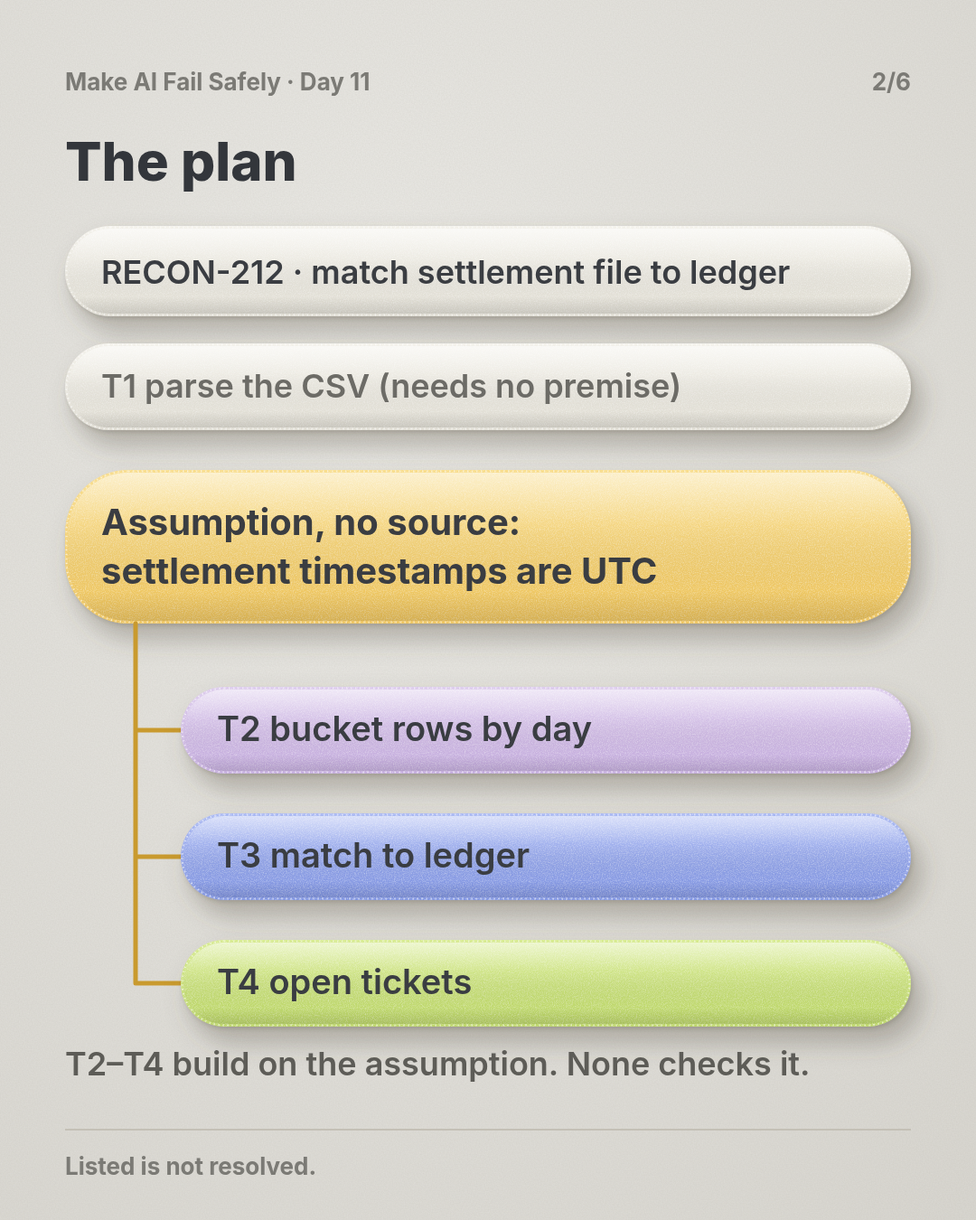
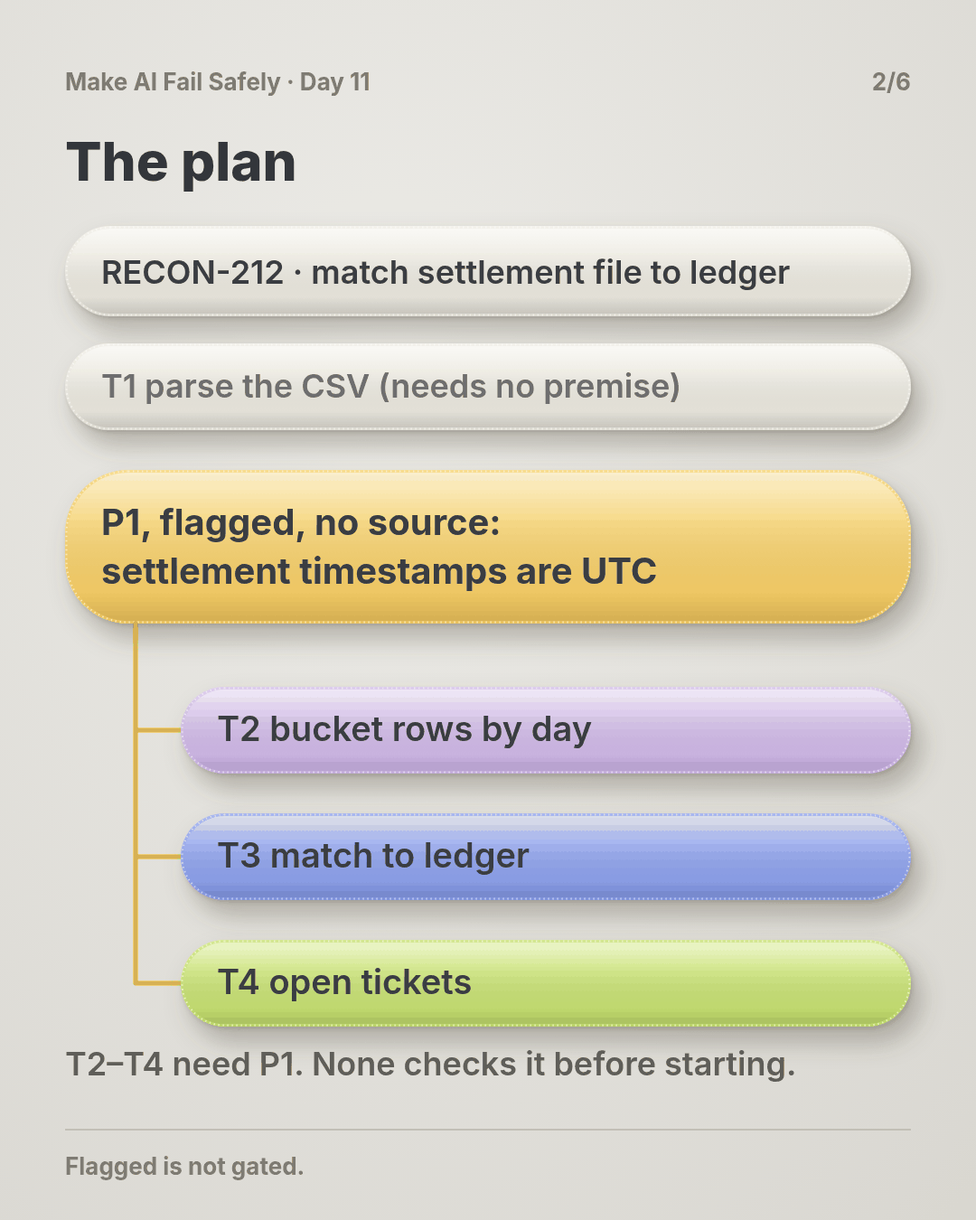
Day 11: reframe as Started on a Guess (flagged is not gated); review fixes, new diagram and slides

Changed region(s): [[0.0611, 0.4044, 0.9167, 0.8089], [0.1833, 0.8089, 0.9167, 0.9022], [0.0611, 0.9333, 0.3361, 0.9644]]

diff --git a/courses/make-ai-fail-safely/practice/day-11-premise-gate/gate.py b/courses/make-ai-fail-safely/practice/day-11-premise-gate/gate.py
@@ -1,0 +1,50 @@
+#!/usr/bin/env python3
+"""Premise gate: run before a task starts. A task may start only if every premise
+it needs is KNOWN with a source you can open.
+
+Usage: python3 gate.py plan.json [task_id]
+plan.json:
+  {"premises": {"P1": {"claim": "...", "status": "KNOWN|UNKNOWN",
+                       "source": "...", "resolve": "what settles it"}},
+   "tasks": [{"id": "T1", "needs": ["P1"]}]}
+Exit 0 if the named task (or every task) may start, 1 otherwise. No dependencies.
+Blocked tasks print Day 9's shape: BLOCKED: <rule> | found: <...> | need: <...>
+"""
+import json, sys
+
+def check(plan, task):
+    prem = plan.get("premises", {})
+    if "needs" not in task:
+        return [("task has no needs list", "no 'needs' on " + task["id"], "write the premises it depends on, or []")]
+    out = []
+    for pid in task["needs"]:
+        p = prem.get(pid)
+        if p is None:
+            out.append((f"premise {pid} missing", f"{task['id']} needs {pid}, not in the premise list", "add it to the plan"))
+        elif p.get("status") != "KNOWN":
+            out.append((f"premise {pid} unknown", f"{task['id']} needs \"{p.get('claim', '?')}\", no source", p.get("resolve") or "a source you can open"))
+        elif not str(p.get("source", "")).strip():
+            out.append((f"premise {pid} unsourced", f"marked KNOWN with no source", "a source you can open"))
+    return out
+
+def main():
+    plan = json.load(open(sys.argv[1]))
+    only = sys.argv[2] if len(sys.argv) > 2 else None
+    tasks = plan.get("tasks", [])
+    if only and not any(t["id"] == only for t in tasks):
+        print(f"{only}: unknown task id"); sys.exit(1)
+    ok = True
+    for t in tasks:
+        if only and t["id"] != only:
+            continue
+        probs = check(plan, t)
+        if probs:
+            ok = False
+            for rule, found, need in probs:
+                print(f"{t['id']}: BLOCKED: {rule} | found: {found} | need: {need}")
+        else:
+            print(f"{t['id']}: may start")
+    sys.exit(0 if ok else 1)
+
+if __name__ == "__main__":
+    main()

diff --git a/courses/make-ai-fail-safely/day-11.md b/courses/make-ai-fail-safely/day-11.md
@@ -1,49 +1,42 @@
-# Day 11 — Listed, Not Gated
+# Day 11 — Started on a Guess
 
 **Time:** ~15 min
 
 ## What you'll learn
 
-Day 10 let a null field stop one record. Today an unknown premise stops a step of the plan.
+Day 10 let a null field stop one record. Today an unsourced premise stops one task of a running plan.
 
-**An assumption that doesn't block anything is decoration.** A premise is a fact a step depends on: "timestamps are UTC", "the IDs are unique". Agents are good at listing them now. A plan with an "Assumptions" section feels careful. But if every task still runs while a premise is unconfirmed, the list changes nothing: each later step builds on the guess and makes it more expensive to undo. You'll see a reconciliation plan that wrote its key premise down, marked it as an assumption, and built three tasks on it anyway. Then you'll turn that list into a gate: each premise is KNOWN with a source or UNKNOWN, and a step whose premise is UNKNOWN does not start.
-
-## Day 11 in 6 slides
-
-<table>
-<tr><td><a href="./assets/day-11/slide-1.png"><img src="./assets/day-11/slide-1.png" width="240" alt="1/6: The plan listed its assumption, settlement timestamps are UTC. Nothing waited for it; three tasks were built on it, and it was wrong."></a></td><td><a href="./assets/day-11/slide-2.png"><img src="./assets/day-11/slide-2.png" width="240" alt="2/6: The RECON-212 plan. T1 parse the CSV needs no premise. T2 bucket, T3 match and T4 tickets all hang off the unsourced assumption that timestamps are UTC."></a></td><td><a href="./assets/day-11/slide-3.png"><img src="./assets/day-11/slide-3.png" width="240" alt="3/6: The file is Amsterdam time; 00:20 on the 15th is 23:20 UTC on the 14th. 99.00 + 31.00 = 130.00 EUR lands on the wrong day, false tickets every night; tests had only daytime rows."></a></td></tr>
-<tr><td><a href="./assets/day-11/slide-4.png"><img src="./assets/day-11/slide-4.png" width="240" alt="4/6: The fix. Each premise is KNOWN with a source or UNKNOWN. BLOCKED: T2-T4 | P1 UNKNOWN, then a spec check says local time, then P1 KNOWN and T2-T4 run. T1 runs from the start."></a></td><td><a href="./assets/day-11/slide-5.png"><img src="./assets/day-11/slide-5.png" width="240" alt="5/6: Where it fits: spec, plan, premise gate (every premise KNOWN, or the task waits), tasks, implement. On big requirements resolve shared premises first."></a></td><td><a href="./assets/day-11/slide-6.png"><img src="./assets/day-11/slide-6.png" width="240" alt="6/6: The rule. Listed is not resolved. An unknown premise blocks the next step."></a></td></tr>
-</table>
+**A task should start only when every premise it needs has a source you can open.** A premise is a fact a task depends on: "timestamps are UTC", "IDs are unique". In a multi-task plan, an agent picks up task after task, often across sessions. Flagging a premise in the plan doesn't stop any of them: each task starts on whatever the plan says, and later tasks inherit the guess as if it were settled. Day 2 got gaps surfaced in a single answer; today they control when each task of a plan may begin. You'll see a reconciliation plan that flagged its key premise and still ran three tasks on it, then build the gate: each premise is KNOWN with an openable source or UNKNOWN, each task names the premises it needs, the check happens when a task starts, and the answer is written back into the plan.
 
 ## See it
 
-One plan. Two ways to hold a premise.
+One plan. Two ways a task can start.
 
-![A reconciliation plan lists "Assumption: settlement file timestamps are UTC". Red path, listed only: tasks 2 to 4 run on it; the file is Amsterdam local time; two late-evening payments, 130.00 EUR, land on the wrong day; discrepancy tickets go out. Marked WRONG. Green path, gated: P1 is UNKNOWN, so tasks 2 to 4 are blocked; the acquirer spec says local time; P1 becomes KNOWN with a source, then the tasks run. Marked SAFE. Footer: An unknown premise blocks the next step.](./day-11.svg)
+![The plan flags "settlement file timestamps are UTC" with no source. Red path, flagged only: T2 to T4 start on it; the file is Amsterdam time; 130.00 EUR lands on the wrong day; false tickets nightly. Green path, gated at task start: T2 to T4 return BLOCKED; the provider spec says local time; written into the plan as KNOWN with source; then they run.](./day-11.svg)
 
 ```mermaid
 flowchart TB
-  P["Plan: 'Assumption: settlement files are UTC'"] --> L["Listed only: T2-T4 run on it"]
-  P --> G["Gated: P1 UNKNOWN, T2-T4 blocked"]
-  L --> W["File is Amsterdam time. 130.00 EUR on the wrong day. Tickets sent."]
-  G --> S["Spec checked: local time. P1 KNOWN, with source. Then T2-T4 run."]
+  P["Plan flags: 'timestamps are UTC' (no source)"] --> L["Flagged only: T2-T4 start on it"]
+  P --> G["Gated: T2-T4 check P1 at start, BLOCKED"]
+  L --> W["File is Amsterdam time. 130.00 EUR on the wrong day. False tickets."]
+  G --> S["Spec says local time. Written into the plan with source. T2-T4 run."]
 ```
 
 ```text
-P1  settlement file timestamps are UTC        UNKNOWN  (no source)
-P2  ledger books by UTC date                  KNOWN    ledger/schema.sql
+P1  settlement file timestamps are UTC   UNKNOWN  source: -
+P2  ledger books by UTC date             KNOWN    source: ledger/schema.sql
 
-T1  parse settlement CSV          needs: -       -> may start
-T2  bucket rows by date           needs: P1      -> BLOCKED
-T3  match buckets to ledger       needs: P1, P2  -> BLOCKED
-T4  open discrepancy tickets      needs: P1, P2  -> BLOCKED
+T1  parse the CSV              needs: -       -> may start
+T2  bucket rows by date        needs: P1      -> BLOCKED
+T3  match buckets to ledger    needs: P1, P2  -> BLOCKED
+T4  open discrepancy tickets   needs: P1, P2  -> BLOCKED
 ```
 
 ## Story
 
 You pick up a ticket and paste it into your agent in full:
 
-> **RECON-212: Daily settlement reconciliation.** Each morning our acquirer drops a settlement CSV (one row per captured payment: `payment_id, captured_at, amount, currency`). Match it against our ledger by settlement day. Any ledger payment missing from that day's file, or any file row with no ledger entry, opens a discrepancy ticket for finance ops. Acceptance: runs at 06:00 UTC, zero false tickets on last month's data.
+> **RECON-212: Daily settlement reconciliation.** Each morning our payment provider drops a settlement CSV (one row per captured payment: `payment_id, captured_at, amount, currency`). Match it against our ledger by settlement day. Any ledger payment missing from that day's file, or any file row with no ledger entry, opens a discrepancy ticket for finance ops. Acceptance: runs at 06:00 UTC; tests pass on `fixtures/settlement_sample.csv`.
 
 The agent reads the repo and writes a plan (illustrative):
 
@@ -58,109 +51,121 @@ Tasks:
   T4 Open discrepancy tickets for mismatches
 ```
 
-That's a good plan. It even flagged the weak point: "format has no offset". You approve it. The tasks run, tests pass on the sample file, which only has daytime payments.
+That's a good plan. It even flagged the weak point: "format has no offset". You approve it, and the agent works through the tasks over the afternoon. The sample fixture has only daytime payments, and the tests pass.
 
-The acquirer writes `captured_at` in Amsterdam local time, UTC+1 in winter. A payment captured at 00:20 on 15 January in Amsterdam is 23:20 on 14 January in UTC, and that's the day your ledger booked it. We ran five real-shaped rows through the agent's bucketing: with the UTC premise, two payments (99.00 and 31.00 EUR, captured at 00:20 and 00:45) land on the 15th. Reading the file as Amsterdam time, all five match. So every night, the late-evening payments show up as "missing" on one day and "unexpected" on the next. T4 opens tickets for both. Finance ops chases 130.00 EUR that was never lost, every day.
+The payment provider writes `captured_at` in Amsterdam local time, UTC+1 in winter. A payment made at 00:20 on 15 January in Amsterdam is 23:20 on 14 January in UTC, and that's the day your ledger booked it. We ran five real-shaped rows through the agent's bucketing: with the UTC premise, two payments made just after midnight Amsterdam time (99.00 and 31.00 EUR, at 00:20 and 00:45) land on the 15th. Reading the file as Amsterdam time, all five match. So every night, those payments show up as "missing" on one day and "unexpected" on the next. T4 opens tickets for both. Finance ops chases 130.00 EUR that was never lost, every day.
 
-Nobody hid the premise. It was written down on line one. **It was listed, and nothing waited for it.** T2 used it, T3 trusted T2, T4 acted on T3. By the time anyone looked, three tasks and a ticket queue stood on one unchecked line.
+Nobody hid the premise. **It was flagged, and no task had to wait for it.** The flag sat at the top of the plan; T2 started from the plan, T3 from T2's output, T4 from T3's. When a new session picked up T4 the next morning, it read "Assumptions: UTC" as part of an approved plan, which made the guess look more settled, not less.
 
-**What breaks the loop.** Give each premise a status and each task a list of what it needs:
+**What breaks the loop.** Three changes to the plan, and one check:
 
-- **KNOWN** has a source you could hand to someone else: a file and line, a spec page, a query result.
-- **UNKNOWN** is everything else, including "probably" and "the format suggests".
-- A task can start only when every premise it needs is KNOWN.
+- **Each premise gets a status.** KNOWN means it has a source you could hand to someone else and they could open it: a file and line, a spec page, a query result. Everything else is UNKNOWN, including "the format suggests".
+- **Each task names the premises it needs.** T1 needs nothing; T2 needs P1.
+- **The check happens when a task starts**, not when the plan is approved. A task with an UNKNOWN premise doesn't start; it replies in Day 9's BLOCKED shape:
 
-With that gate, T1 runs (parsing depends on neither premise). T2 to T4 stop with `BLOCKED | P1 UNKNOWN: settlement file timestamps are UTC`. Resolving it takes one look at the acquirer's file spec, which says local time. P1 is rewritten with that source, and only then does the bucketing get built, correctly. We ran this check on the plan above, before and after the fix (the script is in the practice folder).
+```text
+BLOCKED: premise P1 unknown | found: T2 needs "settlement file timestamps are UTC", no source | need: payment provider's file spec
+```
+
+- **The answer goes back into the plan.** One look at the provider's file spec: local time. P1 becomes "timestamps are Europe/Amsterdam local time, KNOWN, source: provider spec v3.2 p.14". Every later task and every later session reads the fact, not the guess.
+
+We ran this check on the plan above, before and after P1 was resolved (the script is in the practice folder).
 
 ## Why it happens
 
-1. **Listing feels like handling.** Writing "Assumption: UTC" looks diligent, to the agent and to you reviewing the plan. The risk has a name, so it feels managed.
+1. **Approval happens once; tasks start many times.** You review the plan at the beginning. Each task starts later, often in a fresh session, and nothing re-asks the question at that moment.
 
-2. **The plan has no place for "wait".** Tasks are ordered by build sequence, not by what they rely on. Nothing connects line one of the assumptions to task 2.
+2. **Plans say what to build, not what each step relies on.** The flag is at the top; the tasks are below. Nothing links P1 to T2, so nothing can hold T2 back.
 
-3. **Each step trusts the one before.** T3 checks T2's output, not T2's premise. A guess used once becomes a fact every later step inherits (the Day 2 pattern, now spread across a task chain).
+3. **Each task trusts its input.** T3 checks T2's output, not T2's premise. By T4, the guess is two steps away and looks like data.
 
-4. **Samples rarely touch the premise.** Daytime test data is the same in UTC and Amsterdam time. Green tests say nothing about the premise.
+4. **An approved plan reads as settled.** A later session sees the flag inside a plan you approved and treats it as decided.
 
-5. **Cost grows with every step.** Checking a premise before T2 is one lookup. After T4, it's a code change, a data fix, and an apology to finance ops.
+5. **Samples rarely touch the premise.** Daytime test rows are identical in UTC and Amsterdam time. Green tests say nothing about it.
 
-**Trap in one line:** if a step can start while its premise is unknown, your assumption list is a record of what went wrong, written in advance.
+**Trap in one line:** approving a plan with a flagged premise feels like handling it, but the tasks start long after you looked.
 
-**Not useful fixes:** "Ask the agent to list its assumptions." It already did. "Review the assumptions carefully." You did, and approved, because UTC was a reasonable guess. "Tell it not to assume." It must assume something to plan at all; the question is what it may *build* on. "Add a test for timezones." Only once you know which timezone, which is the premise.
+**Not useful fixes:** "Review the plan's assumptions harder." You did, and UTC was a reasonable guess; review happens once, tasks start later. "Tell it not to assume." It must assume something to plan; the question is which tasks may start. "Add a timezone test." Only once you know which timezone, and that's the premise. "Re-plan when something breaks." By then T4 has sent tickets.
 
 ## Rule
 
-**Every premise a step depends on is KNOWN, with a source, or UNKNOWN. A step whose premise is UNKNOWN does not start until someone resolves it.**
+**Each task names the premises it needs. A premise is KNOWN only with a source you can open. A task whose premise is UNKNOWN doesn't start, and the answer is written back into the plan.**
 
-Day 1: finished-sounding is not verified. Day 2: complete-looking is not decided by you. Day 3: agreed earlier is not still in force. Day 4: remembered is not obeyed. Day 5: agreed with is not confirmed. Day 6: reported is not observed. Day 7: known then is not true now. Day 8: self-graded is not passed. Day 9: worked around is not solved. Day 10: parsed is not valid. Day 11: **listed is not resolved.**
+Day 1: finished-sounding is not verified. Day 2: complete-looking is not decided by you. Day 3: agreed earlier is not still in force. Day 4: remembered is not obeyed. Day 5: agreed with is not confirmed. Day 6: reported is not observed. Day 7: known then is not true now. Day 8: self-graded is not passed. Day 9: worked around is not solved. Day 10: parsed is not valid. Day 11: **flagged is not gated.**
 
-**In short:** a premise without a source is UNKNOWN, and nothing built on it starts.
+**In short:** no source, no start, and the answer lives in the plan.
 
 ## Ask first
 
-**Practice workout:** [listed-not-gated](./practice/day-11-listed-not-gated/SKILL.md), with the prompt and a no-dependency `gate.py` that checks a plan.
+**Practice workout:** [premise-gate](./practice/day-11-premise-gate/SKILL.md), with the prompt and a no-dependency `gate.py` that checks a plan.
 
-1. **Ask for premises per task, not one list.** *"For each task, name the facts it depends on."*
-   **Why this helps:** A premise tied to a task can block that task. A list at the top blocks nothing.
+1. **Put "needs" on every task.** *"For each task, list the premises it depends on."*
+   **Why this helps:** A premise attached to a task can hold that task back. One at the top of the plan holds nothing.
 
-2. **Make "KNOWN" cost a source.** *"KNOWN only with a file and line, doc page, or command output. Otherwise UNKNOWN."*
-   **Why this helps:** "The format has no offset, so UTC" is reasoning, not a source. Requiring one splits guesses from facts.
+2. **Make KNOWN cost an openable source.** *"KNOWN only with a file and line, doc page, or command output."*
+   **Why this helps:** "No offset, so UTC" is reasoning. A source is something you or the next session can open and check.
 
-3. **Run what doesn't depend on unknowns.** Tasks with no UNKNOWN premise go ahead.
-   **Why this helps:** The gate stops only the work at risk, so it doesn't stall the whole plan.
+3. **Check at start, not at approval.** *"Before starting each task, re-check its premises."*
+   **Why this helps:** Each task starts later than your review, and possibly in a session that never saw it.
 
-4. **Ask how to resolve each UNKNOWN.** One line: who or what can settle it.
-   **Why this helps:** A blocked step with a named lookup gets unblocked in minutes. One without becomes the thing everyone skips.
+4. **Write the answer into the plan.** *"When a premise is resolved, update its line with the source."*
+   **Why this helps:** The plan is what the next session reads. A fix that lives only in chat is lost.
 
 **Copy-paste prompt** (add after your ticket):
 
 ```text
-Before writing code, plan the tasks. For each premise the tasks depend on, give:
-P<n> | claim | KNOWN or UNKNOWN | source | how to resolve
-KNOWN needs a source I can open: file and line, doc page, or command output.
-Reasoning, defaults and "the format suggests" are UNKNOWN.
-For each task: T<n> | title | needs: P<n>, ...
-Start only tasks whose premises are all KNOWN. For each blocked task, reply:
-BLOCKED: T<n> | P<n> UNKNOWN: <claim> | need: <what settles it>
+Plan the tasks before writing code. List premises as:
+P<n> | claim | KNOWN or UNKNOWN | source I can open | how to resolve
+Reasoning and defaults are UNKNOWN. Each task: T<n> | title | needs: P<n>, ...
+Before starting any task, re-check its premises in the plan. If one is UNKNOWN, don't start it. Reply:
+BLOCKED: premise P<n> unknown | found: T<n> needs "<claim>", no source | need: <what settles it>
+Start tasks that need nothing unknown. When I resolve a premise, update its line with the source.
 ```
 
-**Limit:** The gate checks status, not truth. A KNOWN premise with a wrong or stale source passes. Read the source for any premise that moves money or data, and the gate only covers premises someone wrote down: a plan with an empty "needs" on a risky task deserves a question.
+**Limit:** The gate checks status, not truth. A KNOWN premise with a wrong or stale source passes, so open the source for anything that moves money or data. It also covers only premises that were written down: a risky task with an empty "needs" deserves a question.
 
 ## Fit it into your workflow
 
-Your flow is spec → plan → tasks → implement, in Kiro, Claude Code, Cursor, or similar. The gate sits between plan and tasks. The plan gets a premise table (claim, status, source), and every task names the premises it needs. Implementation starts on a task only when all its premises are KNOWN. An UNKNOWN comes back to you as a BLOCKED reply in Day 9's shape; you resolve it with a lookup or a decision, and the source is written into the plan, so later tasks and later sessions inherit the fact, not the guess.
+Your flow is spec → plan → tasks → implement, in Kiro, Claude Code, Cursor, or similar. The premise table lives in the plan file, next to the tasks, and each task lists its `needs`. Add one line to your project rules: before starting a task, check its premises; if any is UNKNOWN, reply BLOCKED instead. You resolve it with a lookup or a decision, and the source goes into the plan, so the next session inherits it.
 
-On a big requirement: gate the premises that several tasks share first. One resolved premise unblocks a whole branch of the plan.
+On a big requirement: resolve the premises several tasks share first. One answer unblocks a whole branch.
 
 ## 10-minute exercise
 
-**Setup:** a real ticket you're about to start or just finished, with at least three tasks.
+**Setup:** a real ticket with at least three tasks, one you're starting or just finished.
 
-1. **Run the copy-paste prompt** on the ticket. Save the premise table and task list.
-2. **Check every KNOWN.** Open its source. If it doesn't say what the claim says, mark it UNKNOWN.
-3. **Gate the plan.** Put it in `plan.json` and run the practice `gate.py`. Note which tasks are blocked.
-4. **Resolve one UNKNOWN** with a lookup: a doc, a query, a question to the owner. Record the source.
-5. **Compare.** If you'd built the blocked tasks on the original guess, what would have changed?
+1. **Run the copy-paste prompt** on it. Save the premise table and tasks.
+2. **Open every KNOWN source.** If it doesn't say what the claim says, mark it UNKNOWN.
+3. **Gate it.** Put the plan in `plan.json` and run the practice `gate.py`. Note what's blocked.
+4. **Resolve one UNKNOWN** with a lookup: a doc, a query, a question to the owner. Write the source into the plan.
+5. **Compare.** If the blocked tasks had run on the guess, what would have changed?
 
-**Done when:** you have a premise table with a source on every KNOWN, at least one task that was blocked, and the source that unblocked it.
+**Done when:** every KNOWN has a source you opened, at least one task was blocked, and the source that unblocked it is in the plan file.
 
 ## Carry to next day
 
 | Keep this | Day 12 builds on it |
 |-----------|-------------------|
-| Log one line: `premise \| <claim> \| was: UNKNOWN \| source: <where> \| guess was <right/wrong>` | Today a premise becomes KNOWN on one source. Day 12 asks when one source isn't enough: checking a critical claim by a second, independent path |
-| Keep the premise table in the plan file, next to the tasks | |
-| An assumption in a plan is **a question**: what does it block until it's answered? | |
+| Log one line: `premise \| <claim> \| was UNKNOWN \| source: <where> \| guess was <right/wrong>` | Today a premise becomes KNOWN on one source. Day 12 asks when one source isn't enough: checking a critical claim by a second, independent path |
+| Keep the premise table in the plan file, and the "check before start" line in your rules | |
+| A flagged premise is **a question**: which task does it hold back? | |
 
 ## Check yourself
 
 Close the page. Answer without looking:
 
-1. The plan listed "timestamps are UTC". Why didn't that prevent the false tickets?
-2. What makes a premise KNOWN, and why isn't "the format has no offset" enough?
-3. Which tasks may start while a premise is UNKNOWN?
-4. Name **one Ask first tip** you'd use on your next plan.
+1. The plan flagged "timestamps are UTC" and you approved it. Why did T2–T4 still run on it?
+2. What makes a premise KNOWN?
+3. Why check at the start of each task instead of at plan approval?
+4. Where does the answer go once a premise is resolved, and why there?
 
 Stuck on any → re-read **What you'll learn**, **Story**, and **Ask first** once → answer again. Being able to say it back is the bar — not "I get it."
 
-(The practice skill `listed-not-gated` uses the same prompt, plus the gate script.)
+(The practice skill `premise-gate` uses the same prompt, plus the gate script.)
+
+## Day 11 in 6 slides (optional)
+
+<table>
+<tr><td><a href="./assets/day-11/slide-1.png"><img src="./assets/day-11/slide-1.png" width="240" alt="1/6: The plan flagged its premise. No task had to wait for it."></a></td><td><a href="./assets/day-11/slide-2.png"><img src="./assets/day-11/slide-2.png" width="240" alt="2/6: RECON-212 plan: T2 to T4 depend on the unsourced UTC premise; T1 doesn't."></a></td><td><a href="./assets/day-11/slide-3.png"><img src="./assets/day-11/slide-3.png" width="240" alt="3/6: File is Amsterdam time; 130.00 EUR lands on the wrong day; false tickets nightly."></a></td></tr>
+<tr><td><a href="./assets/day-11/slide-4.png"><img src="./assets/day-11/slide-4.png" width="240" alt="4/6: Checked at task start: BLOCKED, provider spec looked up, source written into the plan."></a></td><td><a href="./assets/day-11/slide-5.png"><img src="./assets/day-11/slide-5.png" width="240" alt="5/6: Premise table in the plan; check before each task starts; resolve shared premises first."></a></td><td><a href="./assets/day-11/slide-6.png"><img src="./assets/day-11/slide-6.png" width="240" alt="6/6: Rule: flagged is not gated. No source, no start."></a></td></tr>
+</table>

diff --git a/courses/make-ai-fail-safely/practice/day-11-premise-gate/SKILL.md b/courses/make-ai-fail-safely/practice/day-11-premise-gate/SKILL.md
@@ -1,0 +1,44 @@
+---
+name: premise-gate
+description: Day 11 practice — flagged is not gated. In a multi-task plan, a premise flagged at the top ("settlement timestamps are UTC") holds no task back, and later tasks and sessions inherit the guess. Each task names the premises it needs; a premise is KNOWN only with a source you can open; the check runs when a task starts; a blocked task replies in Day 9's BLOCKED shape; the answer is written back into the plan.
+---
+
+# Premise gate
+
+A reconciliation plan flags "settlement file timestamps are UTC" with no source. You approve it; T2–T4 start on it over the afternoon. The file is Amsterdam local time, so payments made just after midnight land on the wrong day and false discrepancy tickets go out every night.
+
+Flagged is not gated. No source, no start, and the answer lives in the plan.
+
+## Part A — Ask (paste after your ticket)
+
+```
+Plan the tasks before writing code. List premises as:
+P<n> | claim | KNOWN or UNKNOWN | source I can open | how to resolve
+Reasoning and defaults are UNKNOWN. Each task: T<n> | title | needs: P<n>, ...
+Before starting any task, re-check its premises in the plan. If one is UNKNOWN, don't start it. Reply:
+BLOCKED: premise P<n> unknown | found: T<n> needs "<claim>", no source | need: <what settles it>
+Start tasks that need nothing unknown. When I resolve a premise, update its line with the source.
+```
+
+**In an orchestrated flow** (spec → plan → tasks → implement): the premise table lives in the plan file; each task lists `needs`; your project rules say "check premises before starting a task". Resolved sources go into the plan so the next session inherits them.
+
+## Part B — Gate (you do this)
+
+[`gate.py`](./gate.py) has no dependencies. Put the plan in JSON (see [`plan.example.json`](./plan.example.json)) and run it before a task starts:
+
+```bash
+python3 gate.py plan.json        # every task
+python3 gate.py plan.json T3     # one task; exit 0 may start, 1 blocked or unknown id
+```
+
+On the example: `T1: may start`, then `T2: BLOCKED: premise P1 unknown | found: T2 needs "settlement file timestamps are UTC", no source | need: payment provider's file spec`, and the same for T3 and T4.
+
+1. **Open every KNOWN source.** If it doesn't say what the claim says, it's UNKNOWN.
+2. **Resolve with a lookup or a decision,** not a better guess. Write the source into the plan.
+3. **A risky task with `needs: []`** deserves a question: what is it relying on?
+
+**Limit:** the gate checks status, not truth. A wrong or stale source passes.
+
+**Done when:** at least one task was blocked, and the source that unblocked it is in the plan file.
+
+Lesson: [Day 11 — Started on a Guess](../../day-11.md)

diff --git a/courses/make-ai-fail-safely/README.md b/courses/make-ai-fail-safely/README.md
@@ -110,13 +110,13 @@ Each day = **title · failure · mechanism · 10-min exercise**. Skip anything t
 | **Mechanism** | The reply is written for a reader, format instructions hold most of the time, gaps get filled, and lenient parsing turns "can't tell" into a number. Fix: exact shape with a format per field, missing as null, values tied to source text, a validator that accepts or rejects; rejects retry once with the errors, then go to a person, never repaired |
 | **Exercise** | Five-field schema for one real output; run five real inputs; validate with `validate.py`; replay rejects with the error list; hand-break one reply to prove it can't pass |
 
-### Day 11 — Listed, Not Gated → [lesson](./day-11.md)
+### Day 11 — Started on a Guess → [lesson](./day-11.md)
 
 | | |
 |--|--|
-| **Failure** | A plan lists its key premise as an assumption and every later task builds on it anyway ("settlement timestamps are UTC"; the file is Amsterdam time; late-evening payments land on the wrong day and false tickets go out) |
-| **Mechanism** | Listing feels like handling, plans order tasks by build sequence not dependency, and each step trusts the one before. Fix: each premise KNOWN with a source or UNKNOWN, each task names the premises it needs, and a task with an UNKNOWN premise doesn't start; it returns BLOCKED with what would settle it |
-| **Exercise** | Run the premise prompt on a real ticket; open every KNOWN source; gate the plan with `gate.py`; resolve one UNKNOWN with a lookup and record the source |
+| **Failure** | A multi-task plan flags a premise ("settlement timestamps are UTC", no source), you approve it, and later tasks start on it anyway (the file is Amsterdam time; payments just after midnight land on the wrong day; false tickets every night) |
+| **Mechanism** | Approval happens once but tasks start many times, often in new sessions; nothing links a premise to the tasks that need it. Fix: each task names its premises; KNOWN only with a source you can open; the check runs at task start; an UNKNOWN replies BLOCKED (Day 9's shape); the answer is written back into the plan |
+| **Exercise** | Run the premise prompt on a real ticket; open every KNOWN source; gate the plan with `gate.py`; resolve one UNKNOWN and write its source into the plan |
 
 ### Day 12 — Dual-Path Verification
 

diff --git a/courses/make-ai-fail-safely/practice/README.md b/courses/make-ai-fail-safely/practice/README.md
@@ -16,4 +16,4 @@ They are **not** the main repo skills under [`../../skills/`](../../skills/). Th
 | 8 | [self-graded-green](./day-08-self-graded-green/SKILL.md) |
 | 9 | [stop-rules](./day-09-stop-rules/SKILL.md) |
 | 10 | [parse-or-reject](./day-10-parse-or-reject/SKILL.md) |
-| 11 | [listed-not-gated](./day-11-listed-not-gated/SKILL.md) |
+| 11 | [premise-gate](./day-11-premise-gate/SKILL.md) |
